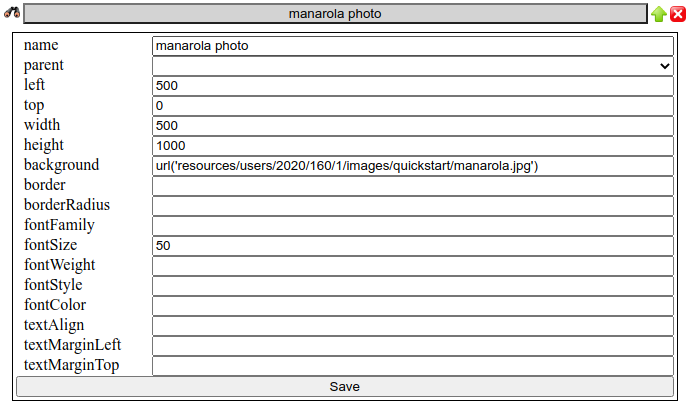
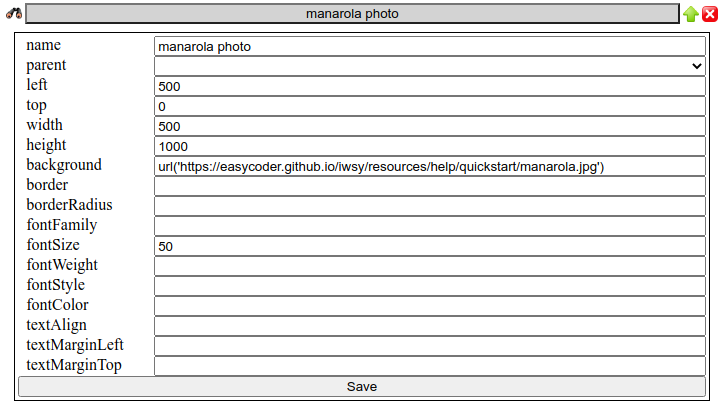
Refactor help

Changed region(s): [[0.0, 0.0, 1.0, 1.0]]

diff --git a/iwsy/resources/help/quickstart.md b/iwsy/resources/help/quickstart.md
@@ -10,62 +10,62 @@ The first thing to do is define a _block_. This is an area of the screen having 
 
 ## Your first block
 
-Click the **Blocks** button over in the right-hand panel, then click the ~img:/resources/icon/plus.png:icon~ at the right-hand end of the title row. Now click the button titled "New Block". You should get this:
+Click the **Blocks** button over in the right-hand panel, then click the ~img:https://easycoder/github.io/iwsy/resources/icon/plus.png|icon~ at the right-hand end of the title row. Now click the button titled "New Block". You should get this:
 
-~img:resources/help/quickstart/newblock.png:100%~
+~img:https://easycoder.github.io/iwsy/resources/help/quickstart/newblock.png|100%~
 
 Most of these default values are fine as they are; they describe a block that occupies the whole window area. Let's just change the ~m:name~ property to ~m:background~ and the ~m:background~ property to ~m:url('https://easycoder.github.io/iwsy/resources/help/quickstart/SemoigoDawn.jpg')~. When the presentation runs, the effect will be to display a full-size image. This is what the panel should look like now:
 
-~img:resources/help/quickstart/first-block.png:100%~
+~img:https://easycoder.github.io/iwsy/resources/help/quickstart/first-block.png|100%~
 
-Now let's save our work. There's a **Save** button in the editor panel but this just anchors your changes and updates titles etc. You really need to save the entire project. If you are registered it will go to the ~iwsy~ website, but if not it will be saved to your browser's own storage space. Type the name ~m:quickstart~ in the **Script name** box under the main button bar, then click the ~img:/resources/icon/save.png:icon~ icon in the button bar. It's highly recommended that you click this button regularly so you don't lose your work in the event of something going wrong.
+Now let's save our work. There's a **Save** button in the editor panel but this just anchors your changes and updates titles etc. You really need to save the entire project. If you are registered it will go to the ~iwsy~ website, but if not it will be saved to your browser's own storage space. Type the name ~m:quickstart~ in the **Script name** box under the main button bar, then click the ~img:https://easycoder/github.io/iwsy/resources/icon/save.png|icon~ icon in the button bar. It's highly recommended that you click this button regularly so you don't lose your work in the event of something going wrong.
 
 The effect I want to create is for the image to fade up out of the screen background. So let's go to to the **Steps** editor and make that happen. 
 
 ## Adding some steps
 
-The ~m:init~ step provides information about the container to be used for the show. Its default values are fine so there's no need to make any changes here. So we'll add a second step. Click the ~img:/resources/icon/plus.png:icon~ to add the new step, then click the **New step** button. You should see this:
+The ~m:init~ step provides information about the container to be used for the show. Its default values are fine so there's no need to make any changes here. So we'll add a second step. Click the ~img:https://easycoder/github.io/iwsy/resources/icon/plus.png|icon~ to add the new step, then click the **New step** button. You should see this:
 
-~img:resources/help/quickstart/newstep.png:100%~
+~img:https://easycoder.github.io/iwsy/resources/help/quickstart/newstep.png|100%~
 
 Click in the Action box and a drop-down list appears of all the available step types:
 
-~img:resources/help/quickstart/actions.png:100%~
+~img:https://easycoder.github.io/iwsy/resources/help/quickstart/actions.png|100%~
 
 We'll start with a short pause. When the browser switches to full-screen mode it displays a message for a couple of seconds so we'd like to wait for this to disappear before starting our show. Choose ~m:pause~, then set the ~m:Name~ property to ~m:pause before starting~. We'll have a 2-second pause so set the duration to 2 then click **Save**.
 
-Now click ~img:/resources/icon/plus.png:icon~ again to add another step. It too starts as **New Step** so click that. As before, click to open the ~m:Action~ list. We want to set up (initialize) our background block,so choose ~m:set~ ~m:content~. Set the ~m:Name~ property to ~m:set up background~, then click **Save**. It should now look like this:
+Now click ~img:https://easycoder/github.io/iwsy/resources/icon/plus.png|icon~ again to add another step. It too starts as **New Step** so click that. As before, click to open the ~m:Action~ list. We want to set up (initialize) our background block,so choose ~m:set~ ~m:content~. Set the ~m:Name~ property to ~m:set up background~, then click **Save**. It should now look like this:
 
-~img:resources/help/quickstart/setup-background.png:100%~
+~img:https://easycoder.github.io/iwsy/resources/help/quickstart/setup-background.png|100%~
 
-The ~m:set~ ~m:content~ action lets you set up any number of blocks at the same time, though here we only have one. Click the ~img:/resources/icon/plus.png:icon~ in the **Blocks** row, then click the empty selector under the **Blocks** title. A drop-down list appears with the name of the block we created earlier:
+The ~m:set~ ~m:content~ action lets you set up any number of blocks at the same time, though here we only have one. Click the ~img:https://easycoder/github.io/iwsy/resources/icon/plus.png|icon~ in the **Blocks** row, then click the empty selector under the **Blocks** title. A drop-down list appears with the name of the block we created earlier:
 
-~img:resources/help/quickstart/select-background-block.png:100%~
+~img:https://easycoder.github.io/iwsy/resources/help/quickstart/select-background-block.png|100%~
 
-so select that. The block has no text, just the background defined in the block itself, so leave the **Content** drop-down list empty. Click the **Save** button for this step, then click the ~img:/resources/icon/save.png:icon~ icon in the button bar.
+so select that. The block has no text, just the background defined in the block itself, so leave the **Content** drop-down list empty. Click the **Save** button for this step, then click the ~img:https://easycoder/github.io/iwsy/resources/icon/save.png|icon~ icon in the button bar.
 
 ## Fading up
 
-Now we have a block with a background, so let's fade it up. Click ~img:/resources/icon/plus.png:icon~ again or click the **Add step after** button. In the new step, open the editor, select the **fade up** action and give it the name ~m:fade up background~. It should look like this:
+Now we have a block with a background, so let's fade it up. Click ~img:https://easycoder/github.io/iwsy/resources/icon/plus.png|icon~ again or click the **Add step after** button. In the new step, open the editor, select the **fade up** action and give it the name ~m:fade up background~. It should look like this:
 
-~img:resources/help/quickstart/fade-up-background.png:100%~
+~img:https://easycoder.github.io/iwsy/resources/help/quickstart/fade-up-background.png|100%~
 
-This action lets you fade up as many blocks as you like simultaneously, so it provides you with the means to add a list. Here we only have a single block so we'll add that. Click the ~img:/resources/icon/plus.png:icon~ in the **Blocks** row, then click the empty selector in the new row and choose **background** again. Finally set the duration of the fade to a suitable value; say 2 (seconds). You can use decimal fractions here if you need to. It should now look like this:
+This action lets you fade up as many blocks as you like simultaneously, so it provides you with the means to add a list. Here we only have a single block so we'll add that. Click the ~img:https://easycoder/github.io/iwsy/resources/icon/plus.png|icon~ in the **Blocks** row, then click the empty selector in the new row and choose **background** again. Finally set the duration of the fade to a suitable value; say 2 (seconds). You can use decimal fractions here if you need to. It should now look like this:
 
-~img:resources/help/quickstart/fade-up-background2.png:100%~
+~img:https://easycoder.github.io/iwsy/resources/help/quickstart/fade-up-background2.png|100%~
 
 If you haven't saved your project recently, do it now.
 
 ## Watch it run!
 
-Now it's time to test your work, which will cause this help panel to disappear, but don't worry; you can bring it back by clicking the ~img:/resources/icon/help.png:icon~ button in the toolbar.
+Now it's time to test your work, which will cause this help panel to disappear, but don't worry; you can bring it back by clicking the ~img:https://easycoder/github.io/iwsy/resources/icon/help.png|icon~ button in the toolbar.
 
-You have 2 run options. The ~img:/resources/icon/run.png:icon~ button runs the presentation inside ~iwsy~, in the left-hand panel currently occupied by this Help page. The ~img:/resources/icon/fullscreen.png:icon~ button runs it full-screen. Note: It is possible that the full-screen mode may not always start up properly; if you have trouble then put your browser into full-screen mode yourself before clicking ~img:/resources/icon/fullscreen.png:icon~.
+You have 2 run options. The ~img:https://easycoder/github.io/iwsy/resources/icon/run.png|icon~ button runs the presentation inside ~iwsy~, in the left-hand panel currently occupied by this Help page. The ~img:https://easycoder/github.io/iwsy/resources/icon/fullscreen.png|icon~ button runs it full-screen. Note: It is possible that the full-screen mode may not always start up properly; if you have trouble then put your browser into full-screen mode yourself before clicking ~img:https://easycoder/github.io/iwsy/resources/icon/fullscreen.png|icon~.
 
-Click the ~img:/resources/icon/run.png:icon~ or ~img:/resources/icon/fullscreen.png:icon~ icon in the button bar and enjoy watching your steps run!
+Click the ~img:https://easycoder/github.io/iwsy/resources/icon/run.png|icon~ or ~img:https://easycoder/github.io/iwsy/resources/icon/fullscreen.png|icon~ icon in the button bar and enjoy watching your steps run!
 
 A couple of things to note. One is that as the presentation runs the steps in the editor take on green backgrounds. With only a single fade this happens too quickly to see, but in a longer presentation you can see where you are at all times.
 
-Another thing is that you can click the ~img:/resources/icon/binoculars.png:icon~ icon for any step to see what the presentation looks like at that step. The program invisibly runs the entire presentation up to the step you clicked, then runs that step, giving the button a blue background.
+Another thing is that you can click the ~img:https://easycoder/github.io/iwsy/resources/icon/binoculars.png|icon~ icon for any step to see what the presentation looks like at that step. The program invisibly runs the entire presentation up to the step you clicked, then runs that step, giving the button a blue background.
 
 in ~page:quickstart2:Part 2~ we'll add some text to the presentation.

diff --git a/iwsy/resources/help/quickstart3.md b/iwsy/resources/help/quickstart3.md
@@ -4,63 +4,63 @@
 
 In ~page:quickstart:Part 1~ and ~page:quickstart2:Part 2~ we created an introduction that fades up a background panel and zooms up a title. In this part we'll add some typical presentation page, one of what would often be many having a similar format. Our theme is Ligurian villages and here we'll add the first one; Manarola, one of the famous Cinque Terre villages.
 
-Click the **Content** button opposite, then click ~img:resources/icon/plus.png:icon~ to add a new content item. Set the name to ~m:Manarola~ then paste the following text into the empty box:
+Click the **Content** button opposite, then click ~img:https://easycoder.github.io/iwsy/resources/icon/plus.png|icon~ to add a new content item. Set the name to ~m:Manarola~ then paste the following text into the empty box:
 
 > ~m:Cinque Terre - Manarola~
 > ~m:Romantic Manarola – a hamlet of Riomaggiore – spills down a ravine to the wild and rugged Cinque Terre coastline. Besides its natural beauty, the village is also famous for its sweet Sciacchetrà wine, celebrated by Gabriele D'Annunzio in one of his amazing poems. Manarola has brightly painted houses, priceless medieval relics and a tiny harbour that features a boat ramp and a swimming hole; to the north, on the way to Corniglia, there's a stunning viewpoint (Punta Bonfiglio) where visitors can enjoy a drink in a bar between the village’s cemetery and the sea. Everywhere is the scent of the lemon trees, thyme, rosemary and Mediterranean maquis; the grapevines – grown on terraces – embrace the village in a tight hug.~
 
-~img:resources/help/quickstart/manarola-content.png:100%~
+~img:https://easycoder.github.io/iwsy/resources/help/quickstart/manarola-content.png|100%~
 
 As usual, save your work, then click the **Blocks** button. We'll have a 2-column layout with text on one side and a photo on the other. Create 2 new blocks and edit them so they look like this:
 
-~img:resources/help/quickstart/manarola-text.png:100%~
+~img:https://easycoder.github.io/iwsy/resources/help/quickstart/manarola-text.png|100%~
 
-~img:resources/help/quickstart/manarola-photo.jpg:100%~
+~img:https://easycoder.github.io/iwsy/resources/help/quickstart/manarola-photo.png|100%~
 
 Now Click the **Steps** button. We need a **set content** step; we could add to the one we created at the start but sometimes it makes more sense to do it where it will be used. Add a new step; pick the **set content** action, call it **setup manarola** then add a block; pick **manarola text** and for its content pick **manarola**. Make the step look like this:
 
-~img:resources/help/quickstart/setup-manarola.png:100%~
+~img:https://easycoder.github.io/iwsy/resources/help/quickstart/setup-manarola.png|100%~
 
 This operation may need time to complete, so let's do it before the block is visible. Add a **pause** of 1 second.
 
 Now add another new step and get it looking like this:
 
-~img:resources/help/quickstart/fade-up-manarola.png:100%~
+~img:https://easycoder.github.io/iwsy/resources/help/quickstart/fade-up-manarola.png|100%~
 
 This step operates on a pair of blocks, which will fade up concurrently. Note that the fade animation will not wait for the content to be ready before starting. Where text has embedded images it takes time to download and render them; this is done at the **set content** step so it's always best to have a pause just after to allow the processing work to complete.
 
 Now run your presentation. If everything is correct it should end up like this:
 
-~img:resources/help/quickstart/manarola-1.jpg:100%~
+~img:https://easycoder.github.io/iwsy/resources/help/quickstart/manarola-1.jpg|100%~
 
 This is OK but obviously needs a little tweaking here and there. Start with the **manarola text** block and adjust it a little, adding a text margin on the left (which also adds the same on the right):
 
-~img:resources/help/quickstart/manarola-text-2.png:100%~
+~img:https://easycoder.github.io/iwsy/resources/help/quickstart/manarola-text-2.png|100%~
 
 Next, go to the **Content**, select the **Manarola** item and put `"## "` - that's 2 # characters and a space - in front of the first word (CINQUE). Then put a line break after MANAROLA. This will turn the first line into a level 2 header.
 
 Finally, add the following just in front of the word Romantic, at the start of the text:
 
-~m:&#126;img:resources/help/quickstart/cinqueterre.jpg:left 50%&#126;~
+~m:&#126;img:https://easycoder.github.io/iwsy/resources/help/quickstart/cinqueterre.jpg|left 50%&#126;~
 
 This adds an image into the text, using a custom addition to the MarkDown syntax. Everything between the 2 tildes (&#126;) is treated as a special command. It starts with **img:**, which signifies it's an image tag. The URL of the image then follows, after which is another colon then some special tags, in this case one to force the image to "float" to the left and the other being to give it 50% of its container width. Those who are familar with CSS should have little trouble seeing what's happening here. The markup causes HTML to be generated to perform the desired task, but you can in fact insert HTML directly into the file if you need some feature we don't offer. (Though this somewhat negates the purpose of using MarkDown in the first place.)
 
 Run the presentation again:
 
-~img:resources/help/quickstart/manarola-2.jpg:100%~
+~img:https://easycoder.github.io/iwsy/resources/help/quickstart/manarola-2.jpg|100%~
 
 Ah, this is a lot better. You may want to adjust the size of the font (in the **manarola text** block) so it fills the screen better, but you'll find you get different results on different browsers. For some reason, Chrome gives smaller text than Firefox does for the same numerical value.
 
 The rest of the items are similar to what we already have. Create another **Content** item called **Apricale**, with this content:
 
 > ~m:## Provincia di Imperia - Apricale~
-> ~m:&#126;img:resources/help/quickstart/imperia.jpg:left 50%&#126;Apricale is a picturesque small village to the north-east of Dolceacqua in western Liguria and surrounded by forested hills, included on the list of the 'most beautiful villages in Italy'.~
+> ~m:&#126;img:https://easycoder.github.io/iwsy/resources/help/quickstart/imperia.jpg|left 50%&#126;Apricale is a picturesque small village to the north-east of Dolceacqua in western Liguria and surrounded by forested hills, included on the list of the 'most beautiful villages in Italy'.~
 > ~m:Just one of several attractive hill villages in this region, Apricale is compact and easy to explore. Most of the sights of interest are on or very close to the square in the centre of the village, although of course you will also want to follow the main street along the ridge to enjoy more views and to appreciate the medieval character of Apricale."~
 
 Create a third village **Content** item called **Noli**:
 
 > ~m:## ## Provincia di Savona - Noli~
-> ~m:&#126;img:resources/help/quickstart/savona.jpg:left 50%&#126;The seaside village of Noli lies a few km west of Savona, in the central part of Liguria. Although popular with Italians it's scarcely known to anyone else outside of the area. It's a beautiful quiet and relatively unspoiled gem, with a good beach and right behind it the old town with pedestrian-only streets and a sprinkling of shops and restaurants, all preserving the ancient architecture and topped by a small castle. Although it lies on the main &quot;Via Aurelia&quot; coast road, all the through traffic now goes on the Autostrada, leaving Noli free from noisy vehicles. The coast road is also spectacular and it's well worth forsaking the motorway to explore the coastline between Savona and the busy resorts of Finale Ligure and Loano."~
+> ~m:&#126;img:https://easycoder.github.io/iwsy/resources/help/quickstart/savona.jpg|left 50%&#126;The seaside village of Noli lies a few km west of Savona, in the central part of Liguria. Although popular with Italians it's scarcely known to anyone else outside of the area. It's a beautiful quiet and relatively unspoiled gem, with a good beach and right behind it the old town with pedestrian-only streets and a sprinkling of shops and restaurants, all preserving the ancient architecture and topped by a small castle. Although it lies on the main &quot;Via Aurelia&quot; coast road, all the through traffic now goes on the Autostrada, leaving Noli free from noisy vehicles. The coast road is also spectacular and it's well worth forsaking the motorway to explore the coastline between Savona and the busy resorts of Finale Ligure and Loano."~
 
 Then create 2 more pairs of **Blocks** similar to the ones for **Manarola**, calling them **apricale text**, **apricale photo**, **noli text** and **noli photo**. The 3 text blocks are in fact identical; the photo blocks only differ by the name of the image file; these 2 are **apricale.jpg** and **noli.jpg**.
 

diff --git a/iwsy/resources/help/buttons.md b/iwsy/resources/help/buttons.md
@@ -4,26 +4,26 @@
 
 Above this Help page, under the banner, is a panel of buttons. The job of each button is as follows:
 
-~img:resources/icon/new.png:{float:left;height:2em;margin-right:1em}~ Start a new presentation. This clears the workspace. If you have unsaved work it will prompt you to save it. 
+~img:https://easycoder.github.io/iwsy/resources/icon/new|png:{float:left;height:2em;margin-right:1em}~ Start a new presentation. This clears the workspace. If you have unsaved work it will prompt you to save it. 
 
-~img:resources/icon/open.png:{float:left;height:2em;margin-right:1em}~ Open a saved presentation. This displays a list of all presentations and lets you select one. Note that if you are not a registered user, presentations will be saved into your browser's private space. For registered users they are saved to the ~iwsy~ website, into a space allocated to that user.
+~img:https://easycoder.github.io/iwsy/resources/icon/open.png|{float:left;height:2em;margin-right:1em}~ Open a saved presentation. This displays a list of all presentations and lets you select one. Note that if you are not a registered user, presentations will be saved into your browser's private space. For registered users they are saved to the ~iwsy~ website, into a space allocated to that user.
 
 If you have unsaved work you will be prompted to save it before opening the list.
 
-~img:resources/icon/save.png:{float:left;height:2em;margin-right:1em}~ Save your current work. It will be saved using whatever name is shown in the **Script name** box below the buttons. If this box is empty you will be prompted for a name. Files all have ~m:.json~ extensions; if this is omitted it will be added.
+~img:https://easycoder.github.io/iwsy/resources/icon/save.png|{float:left;height:2em;margin-right:1em}~ Save your current work. It will be saved using whatever name is shown in the **Script name** box below the buttons. If this box is empty you will be prompted for a name. Files all have ~m:.json~ extensions; if this is omitted it will be added.
 
-~img:resources/icon/trash.png:{float:left;height:2em;margin-right:1em}~ Delete the current presentation. You will be prompted to confirm before the delete goes ahead.
+~img:https://easycoder.github.io/iwsy/resources/icon/trash.png|{float:left;height:2em;margin-right:1em}~ Delete the current presentation. You will be prompted to confirm before the delete goes ahead.
 
-~img:resources/icon/fileman.png:{float:left;height:2em;margin-right:1em}~ Open the image manager. This shows you all the images you have uploaded to our server. If you are not registered, this button is non-operational.
+~img:https://easycoder.github.io/iwsy/resources/icon/fileman.png|{float:left;height:2em;margin-right:1em}~ Open the image manager. This shows you all the images you have uploaded to our server. If you are not registered, this button is non-operational.
 
-~img:resources/icon/run.png:{float:left;height:2em;margin-right:1em}~ Run your presentation. A player is created in the spacce currently occupied by this Help page and the presentation runs without manual intervention. The button changes to ~img:resources/icon/runstop.png:icon~. If you click this the presentation will stop.
+~img:https://easycoder.github.io/iwsy/resources/icon/run.png|{float:left;height:2em;margin-right:1em}~ Run your presentation. A player is created in the spacce currently occupied by this Help page and the presentation runs without manual intervention. The button changes to ~img:https://easycoder.github.io/iwsy/resources/icon/runstop.png|icon~. If you click this the presentation will stop.
 
-~img:resources/icon/fullscreen.png:{float:left;height:2em;margin-right:1em}~ Run your presentation in full-screen mode. This is the mode you will use when connected to an overhead projector, for example.
+~img:https://easycoder.github.io/iwsy/resources/icon/fullscreen.png|{float:left;height:2em;margin-right:1em}~ Run your presentation in full-screen mode. This is the mode you will use when connected to an overhead projector, for example.
 
 In fullscreen mode the presentation waits for a mouse click or a button press. A mouse click or either of the space or right-arrow keys will cause the presentation to start in manual mode, where it stops after each visual change and waits for you to click or press again. If you press the Enter key the presentation will run according to the timing given by its individual steps. You can interrupt this my clicking or by pressing space or right-arrow.
 
 In some cases the browser will report the screen size incorrectly and some backgrounds will not show properly; if this happens it's best to select full-screen mode in your browser before clicking this button.
 
-~img:resources/icon/help.png:{float:left;height:2em;margin-right:1em}~ Display this help at the page you were last viewing.
+~img:https://easycoder.github.io/iwsy/resources/icon/help.png|{float:left;height:2em;margin-right:1em}~ Display this help at the page you were last viewing.
 
-~img:resources/icon/trash.png:{float:left;height:2em;margin-right:1em}~ Login or Register. This displays the ~page:users:Login panel~.
+~img:https://easycoder.github.io/iwsy/resources/icon/trash.png|{float:left;height:2em;margin-right:1em}~ Login or Register. This displays the ~page:users:Login panel~.

diff --git a/iwsy/resources/help/quickstart2.md b/iwsy/resources/help/quickstart2.md
@@ -8,7 +8,7 @@ After the background has appeared, let's hold it on the screen for a couple of s
 
 We're going to bring up some text in the center of the screen, zooming it from a point below the center line. This presentation is to be some slides about villages in Liguria, the region of Italy that borders the northern Mediterranean, so let's create our first content item. Click the **Content** button and then the ~img:/resources/icon/plus.png:icon~ icon. Open the editor for the new item; it should look like this:
 
-~img:resources/help/quickstart/new-content.png:100%~
+~img:https://easycoder.github.io/iwsy/resources/help/quickstart/new-content.png|100%~
 
 Set the name to ~m:Ligurian villages~ then put the same text into the empty box. As usual, save your work.
 
@@ -18,37 +18,37 @@ The title will end up in the middle of the screen, but to make it more challengi
 
 Click the **Blocks** button and create 2 new blocks (I'm assuming you know how to do that; we covered it in ~page:quickstart:Part 1~). Make the first one look like this:
 
-~img:resources/help/quickstart/main-title.png:100%~
+~img:https://easycoder.github.io/iwsy/resources/help/quickstart/main-title.png|100%~
 
 and the other like this:
 
-~img:resources/help/quickstart/center-title.png:100%~
+~img:https://easycoder.github.io/iwsy/resources/help/quickstart/center-title.png|100%~
 
 The differences are in the ~m:top~, ~m:height~ and ~m:fontSize~ values. The transition effect you'll be using animates the text as it moves from the first to the second state. It can also change the color of the text as it goes, but we're not doing that here.
 
 All of the numbers you see are _mils_ - that's thousandths of the width or height of the block's container, normally the window. (Though you can use the **parent** field to make a block a child of another block.) If you are proficient with CSS and would like to use its values you can do so, but the results can vary from one screen to another. The sharp-eyed may also be wondering why the **top** value of the second block is only set at 150; this is because the text renderer displays items as HTML ~m:&gt;p&lt;~ tags with margins and padding set by your browser. There are ways to get round this; see the detailed manual pages.
 
-You may like to note that in the **Blocks** panel each block has a ~img:resources/icon/binoculars.png:icon~ icon next to it. If you click one of these you will see where your block is on the screen.
+You may like to note that in the **Blocks** panel each block has a ~img:https://easycoder.github.io/iwsy/resources/icon/binoculars.png|icon~ icon next to it. If you click one of these you will see where your block is on the screen.
 
 Now go to the **Steps** panel. The first thing to do is to initialize the **main title** block by adding it to the set of blocks that are initialized in the **set up background** step, so click this step to open its editor:
 
-~img:resources/help/quickstart/setup-background.png:100%~
+~img:https://easycoder.github.io/iwsy/resources/help/quickstart/setup-background.png|100%~
 
-Click the ~img:resources/icon/plus.png:icon~ in the **Blocks** row to add a new block. Select the **main title** block and then select **Ligurian villages** from the **Content** drop-down list. Change the name of the step to **set up blocks** and the result should be:
+Click the ~img:https://easycoder.github.io/iwsy/resources/icon/plus.png:icon~ in the **Blocks** row to add a new block. Select the **main title** block and then select **Ligurian villages** from the **Content** drop-down list. Change the name of the step to **set up blocks** and the result should be:
 
-~img:resources/help/quickstart/setup-blocks-2.png:100%~
+~img:https://easycoder.github.io/iwsy/resources/help/quickstart/setup-blocks-2.png|100%~
 
 If you prefer, you can add a separate step to initialize each block, but in this case we'll do them all at the same time, in one place.
 
 The animated text effect is done with a **transition** action. Add a new step to your presentation, choose the action type **transition** and call it **zoom up title**. Set **block** to **main title** and **target** to **center title**:
 
-~img:resources/help/quickstart/zoom-title.png:100%~
+~img:https://easycoder.github.io/iwsy/resources/help/quickstart/zoom-title.png|100%~
 
 Now you can run your presentation again. The background will fade up first, then after a couple of seconds the text will zoom up.
 
 Add another pause, say 3 seconds, then another action, selecting **fade down**. Call it **fade down title and background**. Add 2 blocks, picking **main title** and **background**. Set the duration to 2 seconds. You should have this:
 
-~img:resources/help/quickstart/fade-down.png:100%~
+~img:https://easycoder.github.io/iwsy/resources/help/quickstart/fade-down.png|100%~
 
 Finally, add another pause of a second.
 

diff --git a/iwsy/resources/help/action-fade.md b/iwsy/resources/help/action-fade.md
@@ -4,17 +4,17 @@
 
 This action fades one or more blocks up or down by varying their opacity.
 
-~img:resources/users/2020/160/1/images/quickstart/action-fade.png:100%~
+~img:https://easycoder.github.io/iwsy/resources/help/img/action-fade.png|100%~
 
 The **Action**, **Name** and **Label** properties are present for all actions.
 
-The **Blocks** property is a list of blocks that will be handled by this step. Add another block to the list by clicking the ~img:resources/icon/plus.png:icon~ button.
+The **Blocks** property is a list of blocks that will be handled by this step. Add another block to the list by clicking the ~img:https://easycoder.github.io/iwsy/resources/icon/plus.png|icon~ button.
 
 The **Duration** property is the time in seconds the fade should take.
 
 The **Continue** is **true** or **false**. It governs whether the next step should run at the same time as this one (**true**) or if it should wait until the fade has completed (**false**). A common use for this is to implement a crossfade, where one scene dissoves into another. The **fade down** and **fade up** steps both have the same **Duration** and the first one has **Continue** set **true**. There's also a separate **Crossfade** action; see the documentation ~page:action-crossfade:here~.
 
-When this action runs the blocks referenced are all faded at the same time. You can change the order of display by moving blocks up the list using the ~img:resources/icon/up.png:icon~ buttons. (This has no effect on the show; it's just a convenience for the programmer.) You can delete any block using the ~img:resources/icon/stop.png:icon~ buttons.
+When this action runs the blocks referenced are all faded at the same time. You can change the order of display by moving blocks up the list using the ~img:https://easycoder.github.io/iwsy/resources/icon/up.png|icon~ buttons. (This has no effect on the show; it's just a convenience for the programmer.) You can delete any block using the ~img:https://easycoder.github.io/iwsy/resources/icon/stop.png|icon~ buttons.
 
 Fades and other animated effects run at 25 frames/sec, as a compromise between visual smoothness and processing requirements.
 

diff --git a/iwsy/resources/help/action-set-content.md b/iwsy/resources/help/action-set-content.md
@@ -4,11 +4,11 @@
 
 This action calls blocks into existence and assigns content to them. Here's a typical example:
 
-~img:resources/users/2020/160/1/images/quickstart/setup-all-blocks.png:100%~
+~img:https://easycoder.github.io/iwsy/resources/help/img/setup-all-blocks.png|100%~
 
-The **Action**, **Name** and **Label** properties are present for all actions, so that just leaves **Blocks**. This is a list of blocks that will be handled by this step. For each one a **content** items is defined; blocks that are just used to hold a background image or color will leave this empty. Add another block to the list by clicking the ~img:resources/icon/plus.png:icon~ button.
+The **Action**, **Name** and **Label** properties are present for all actions, so that just leaves **Blocks**. This is a list of blocks that will be handled by this step. For each one a **content** items is defined; blocks that are just used to hold a background image or color will leave this empty. Add another block to the list by clicking the ~img:https://easycoder.github.io/iwsy/resources/icon/plus.png|icon~ button.
 
-When this action runs the blocks are created in the order they are listed, so a block lower down the list will mask one that's higher up if they overlap. You can change the order of display by moving blocks up using the ~img:resources/icon/up.png:icon~ buttons. You can delete any block using the ~img:resources/icon/stop.png:icon~ buttons.
+When this action runs the blocks are created in the order they are listed, so a block lower down the list will mask one that's higher up if they overlap. You can change the order of display by moving blocks up using the ~img:https://easycoder.github.io/iwsy/resources/icon/up.png|icon~ buttons. You can delete any block using the ~img:https://easycoder.github.io/iwsy/resources/icon/stop.png|icon~ buttons.
 
 Setting content does not make a block visible. To do that you need either ~page:action-show-hide:show~ or ~page:action-fade:fade up~.
 

diff --git a/iwsy/resources/help/users.md b/iwsy/resources/help/users.md
@@ -6,14 +6,14 @@
 
 ## Registration
 
-On the left-hand side of the page, above this help panel, are a row of buttons with ~img:resources/users/2020/160/1/images/help/user.png:{width:1em}~ by itself at the right-hand end. This is the login button. When you click it a panel appears:
+On the left-hand side of the page, above this help panel, are a row of buttons with ~img:https://easycoder.github.io/iwsy/resources/icon/user.png:{width:1em}~ by itself at the right-hand end. This is the login button. When you click it a panel appears:
 
-~img:resources/users/2020/160/1/images/help/login.png:100%~
+~img:https://easycoder.github.io/iwsy/resources/help/img/login.png:100%~
 
 To register as a user, click the **Register** button. The panel then changes to:
 
-~img:resources/users/2020/160/1/images/help/register.png:100%~
+~img:https://easycoder.github.io/iwsy/resources/help/img/register.png:100%~
 
-Fill in all the fields and click **Register**. A popup message will appear, telling you to wait for a confirmation code to arrive by email. The registration form will have gained an extra line where you can type the 6-digit code that arrives. Click **Confirm Registration** and the form will disappear. The icon in the toolbar will now show ~img:resources/users/2020/160/1/images/help/user-loggedin.png:{width:1em}~ to indicate you are registered and logged in. If you click this icon you will be logged out again.
+Fill in all the fields and click **Register**. A popup message will appear, telling you to wait for a confirmation code to arrive by email. The registration form will have gained an extra line where you can type the 6-digit code that arrives. Click **Confirm Registration** and the form will disappear. The icon in the toolbar will now show ~img:https://easycoder.github.io/iwsy/resources/help/img/user-loggedin.png:{width:1em}~ to indicate you are registered and logged in. If you click this icon you will be logged out again.
 
 ~page:project:The Project panel~

diff --git a/iwsy/resources/help/action-show-hide.md b/iwsy/resources/help/action-show-hide.md
@@ -4,10 +4,10 @@
 
 This action shows or hides one or more blocks.
 
-~img:resources/users/2020/160/1/images/quickstart/action-show.png:100%~
+~img:https://easycoder.github.io/iwsy/resources/help/img/action-show.png|100%~
 
-The **Action**, **Name** and **Label** properties are present for all actions, so that just leaves **Blocks**. This is a list of blocks that will be handled by this step. Add another block to the list by clicking the ~img:resources/icon/plus.png:icon~ button.
+The **Action**, **Name** and **Label** properties are present for all actions, so that just leaves **Blocks**. This is a list of blocks that will be handled by this step. Add another block to the list by clicking the ~img:https://easycoder.github.io/iwsy/resources/icon/plus.png|icon~ button.
 
-When this action runs the blocks referenced are all made visible or invisible. You can change the order of display by moving blocks up the list using the ~img:resources/icon/up.png:icon~ buttons. (This has no effect on the show; it's just a convenience for the programmer.) You can delete any block using the ~img:resources/icon/stop.png:icon~ buttons.
+When this action runs the blocks referenced are all made visible or invisible. You can change the order of display by moving blocks up the list using the ~img:https://easycoder.github.io/iwsy/resources/icon/up.png|icon~ buttons. (This has no effect on the show; it's just a convenience for the programmer.) You can delete any block using the ~img:https://easycoder.github.io/iwsy/resources/icon/stop.png|icon~ buttons.
 
 Next: ~page:action-fade:Fade up and down~

diff --git a/iwsy/resources/help/project.md b/iwsy/resources/help/project.md
@@ -2,8 +2,8 @@
 
 # The Project panel
 
-The right-hand side of the screen holds the Project panel. When you start up - or after you click the ~img:resources/users/2020/160/1/images/help/new.png:icon~(New) button - it looks like this:
-~img:resources/users/2020/160/1/images/help/project.png:100%~
+The right-hand side of the screen holds the Project panel. When you start up - or after you click the ~img:https://easycoder.github.io/iwsy/resources/icon/new.png|icon~(New) button - it looks like this:
+~img:https://easycoder.github.io/iwsy/resources/help/img/project.png|100%~
 
 There are 3 main sections.
 

diff --git a/iwsy/resources/help/action-init.md b/iwsy/resources/help/action-init.md
@@ -4,7 +4,7 @@
 
 Every ~iwsy~ presentation starts with an `init` action, which defines the environment in which the presentation will run. The editor looks like this:
 
-~img:resources/users/2020/160/1/images/help/editor-init.png:100%~
+~img:https://easycoder.github.io/iwsy/resources/help/img/editor-init.png|100%~
 
 Here there are a set of _properties_ relating to the `init` action. All these are editable. The Title is there for your convenience; it has no affect on the presentation. The properties are as follows:
 

diff --git a/iwsy/resources/help/action-transition.md b/iwsy/resources/help/action-transition.md
@@ -4,7 +4,7 @@
 
 This action performs any combination of zoom, move and changing text size and/or color.
 
-~img:resources/users/2020/160/1/images/quickstart/zoom-title.png:100%~
+~img:https://easycoder.github.io/iwsy/resources/help/img/zoom-title.png|100%~
 
 The **Action**, **Name** and **Label** properties are present for all actions.
 

diff --git a/iwsy/resources/help/action-crossfade.md b/iwsy/resources/help/action-crossfade.md
@@ -4,7 +4,7 @@
 
 This action crossfades the text of a block, replacing it with new content.
 
-~img:resources/users/2020/160/1/images/quickstart/action-crossfade.png:100%~
+~img:https://easycoder.github.io/iwsy/resources/help/img/action-crossfade.png|100%~
 
 The **Action**, **Name** and **Label** properties are present for all actions.
 
